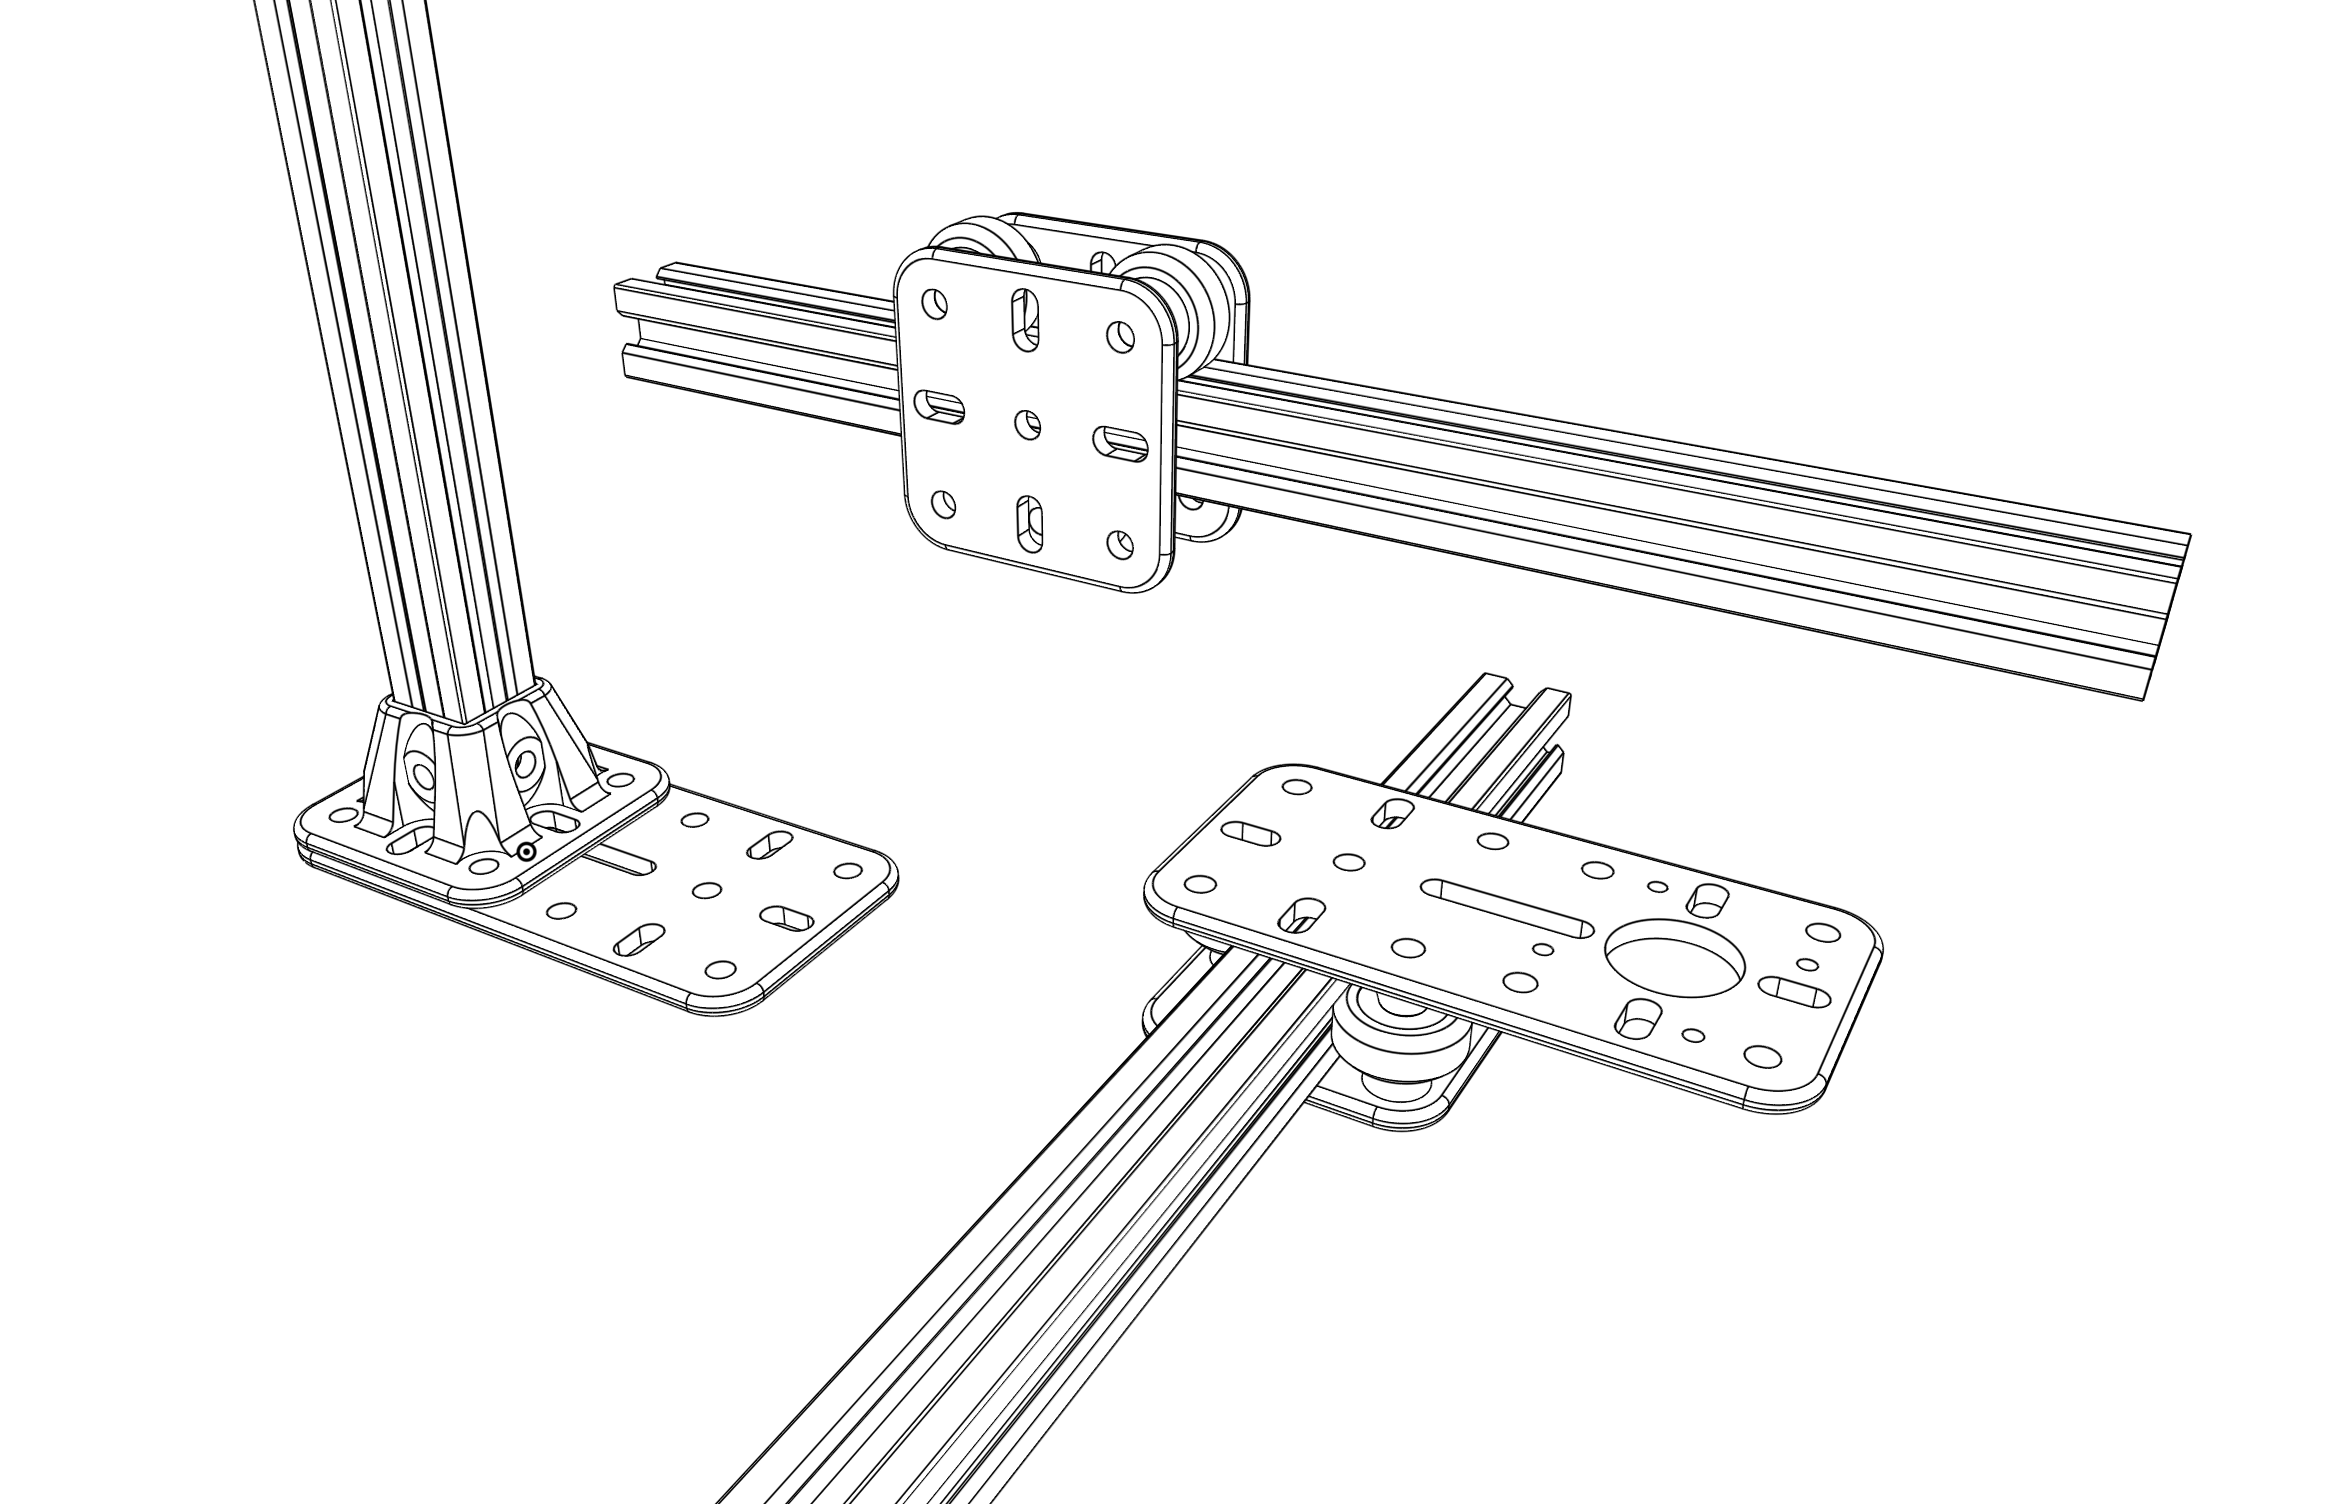
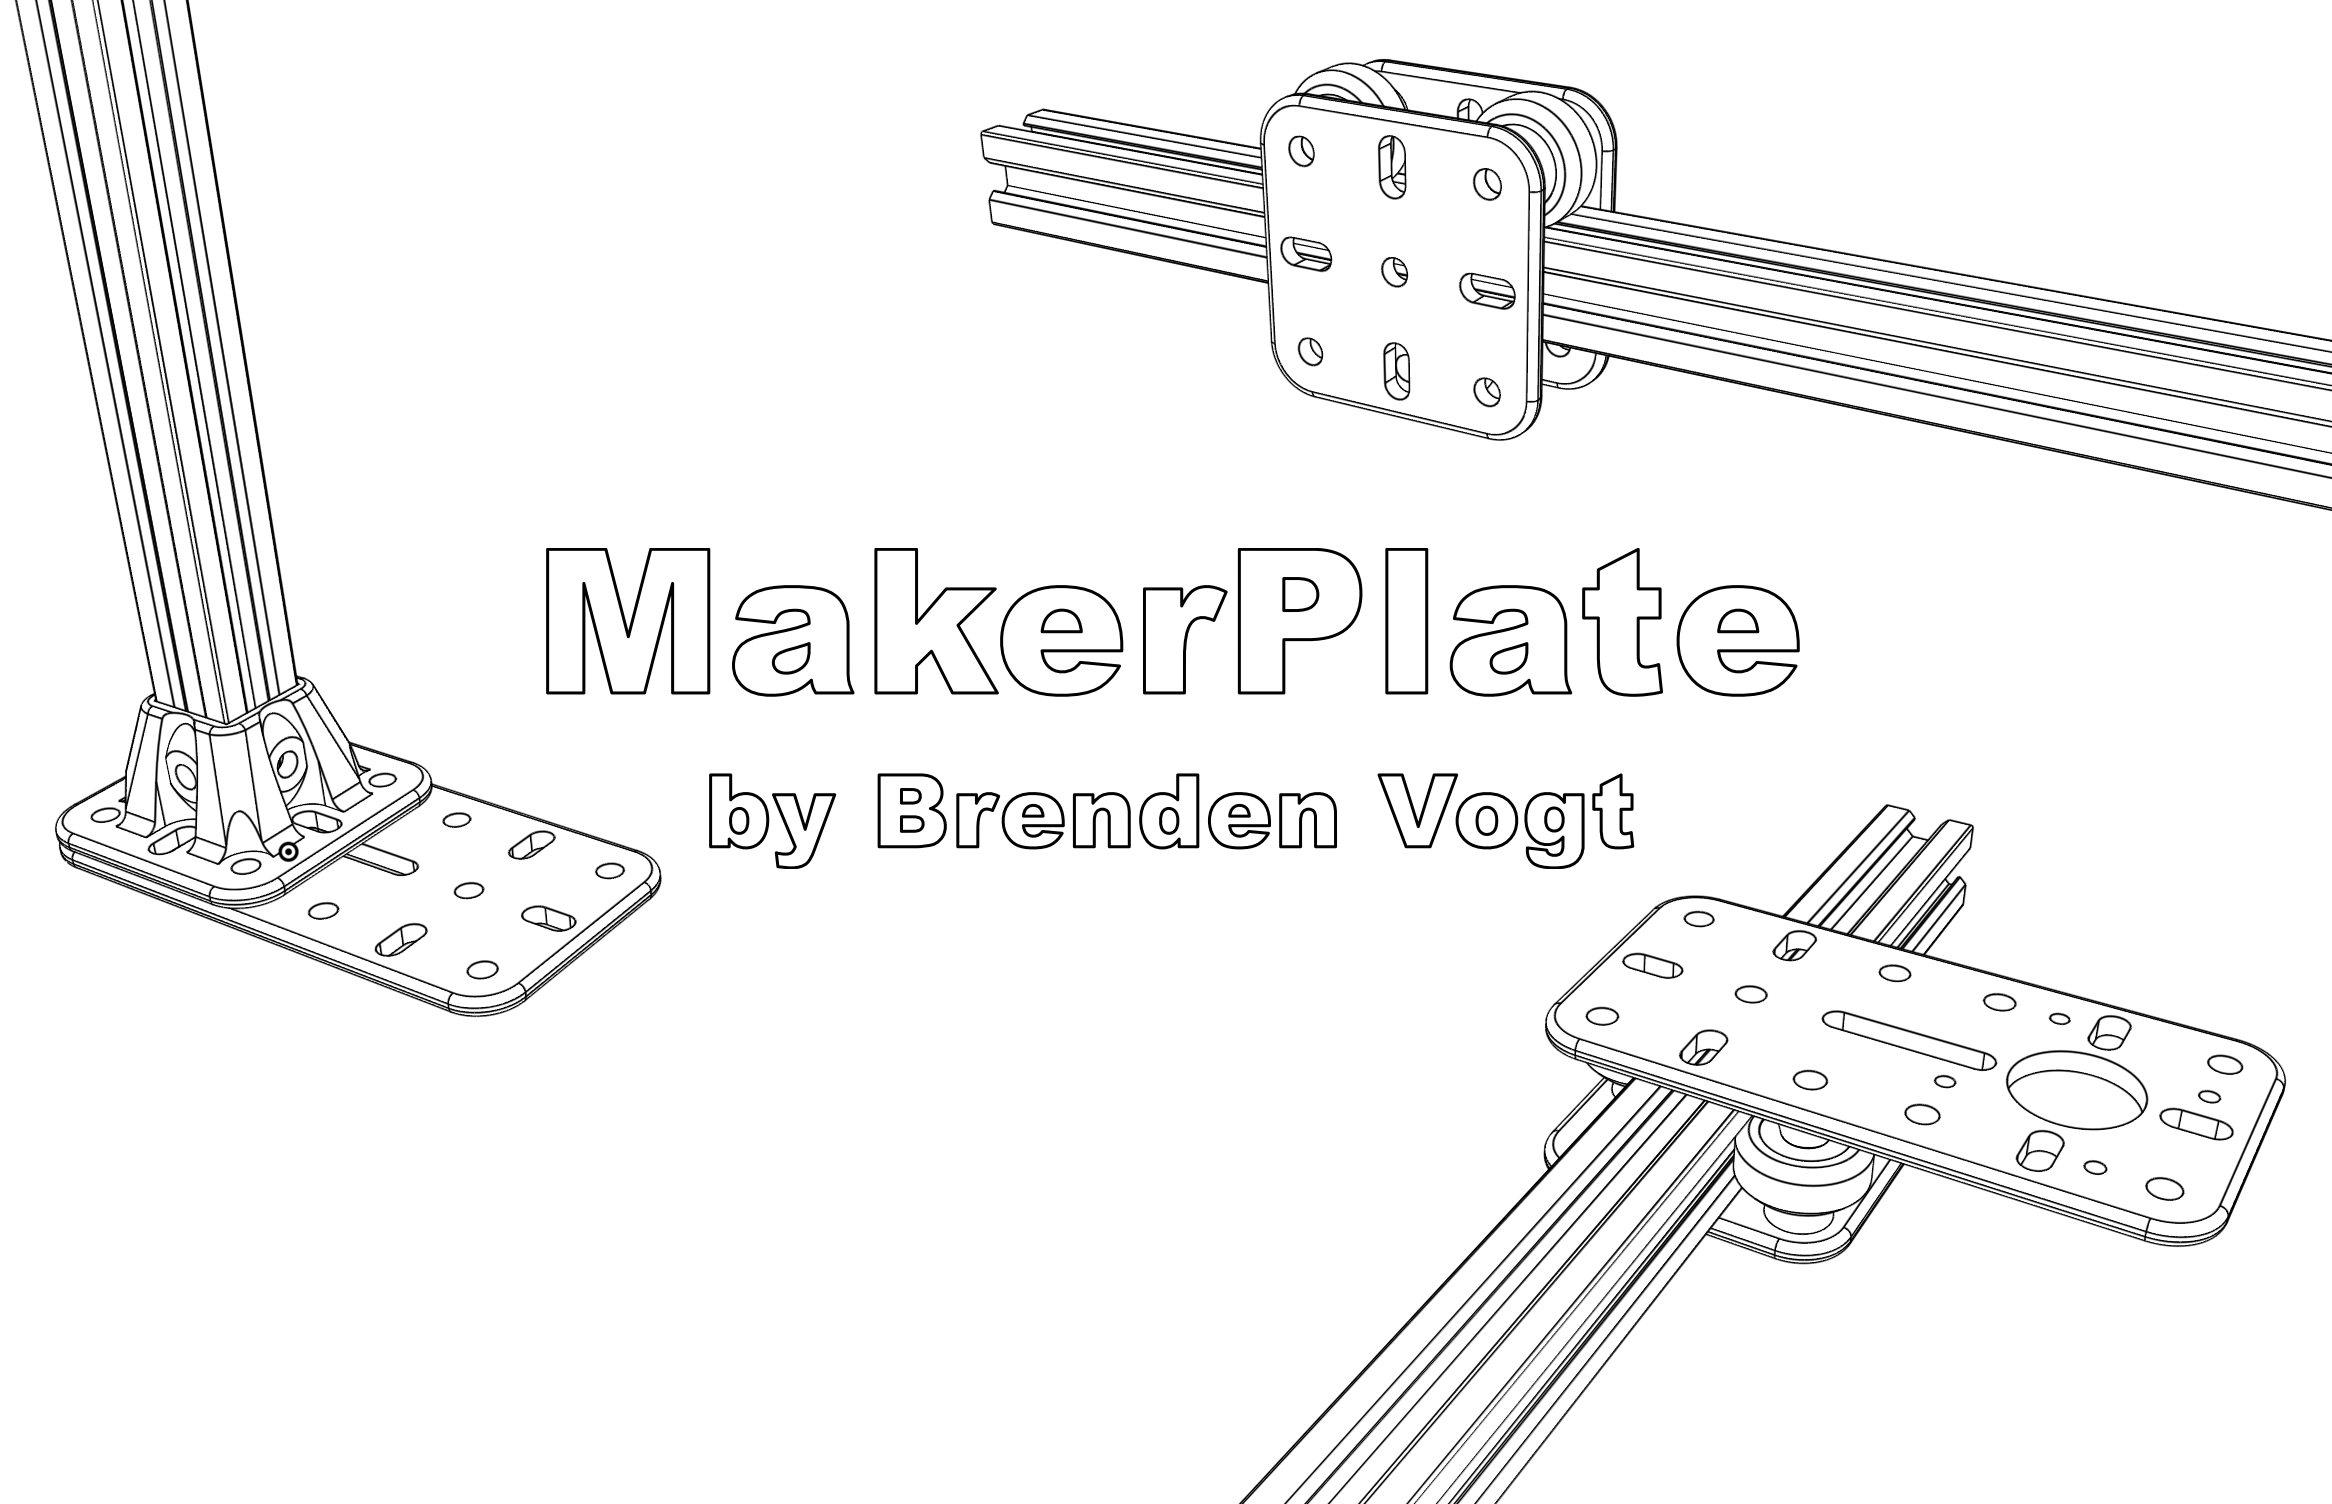
updated image

diff --git a/README.md b/README.md
@@ -1,7 +1,19 @@
-## Maker Plate by Brenden Vogt
-
-### Major Features
+# Maker Plate by Brenden Vogt
+![image](Images/Title.png)
+## Overview of features
 - 20 mm between centers
-- 5mm bolt holes (all holes and slots are 5.6mm for tolerances)
-- 1U Plate is 3x3 holes, 2U Plate is 3x6 holes
-- Holes on corners and slots on centerline
+- Accepts 5mm bolt holes (actual size is 5.6mm. 0.6mm for tolerance)
+- 4mm thickness baseplate
+- slots are 6mm wide
+- meant to work with V Slot wheels commonly found on 3D printers
+# Parts
+## 1U Plate
+- holes on corners and center point
+- slots on center vertical and center horizontal axis
+
+## 2U Plate
+## 1U for 2020 Extrusion
+## 2U for NEMA 17 Stepper Motor
+
+
+## Stepper Plate
